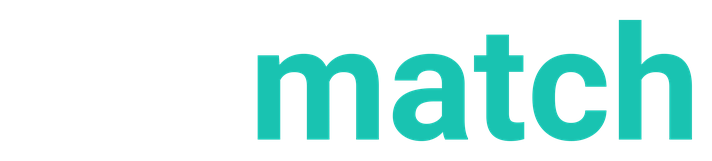
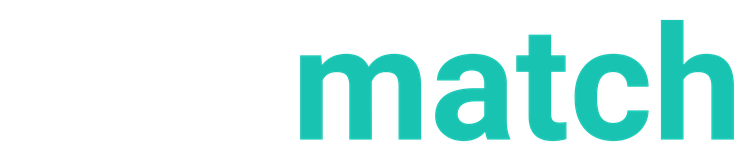
Use a capital T in the Tabmatch wordmark and match the website header to the app
- Wordmark is now "Tabmatch": "Tab" in white (navy on light), "match" in
  turquoise. Flutter Wordmark widget, brand-asset generator, the regenerated
  wordmark/social/splash images, and the website header, footer and 500 page.
- Website header matches the app header: icon 36px, gap 10px, wordmark 26px
  (the app's 1 : 0.28 : 0.72 proportions), vertically centred. On screens
  under 560px the wordmark stays, smaller (icon 28px, text 20px, gap 8px), so
  the menu button still fits.
- The tagline is removed from the header and kept once in the footer, smaller.
- Tests updated and added for the capital T, the tagline placement and the
  header proportions.

Changed region(s): [[0.3399, 0.1242, 0.9888, 0.9006]]

diff --git a/website/static/website/css/site.css b/website/static/website/css/site.css
@@ -45,16 +45,17 @@ ul, ol { margin: 0; padding: 0; }
 /* Header */
 .site-header { background: var(--navy); color: #fff; position: sticky; top: 0; z-index: 50; }
 .header-row { display: flex; align-items: center; justify-content: space-between; gap: 1rem; min-height: 68px; }
-.brand { display: flex; align-items: center; gap: .7rem; color: #fff; text-decoration: none; }
-.brand-mark { display: inline-grid; place-items: center; flex: none; width: 44px; height: 44px; border-radius: 12px; background: transparent; }
+/* Same proportions as the app header (AppLogo): the icon, a gap of 0.28x its
+   height, and a wordmark 0.72x its height, all vertically centred. */
+.brand { display: flex; align-items: center; gap: 10px; color: #fff; text-decoration: none; }
+.brand-mark { display: inline-flex; align-items: center; justify-content: center; flex: none; width: 36px; height: 36px; }
 .brand-mark img { display: block; width: 36px; height: 36px; }
-.brand-text { display: flex; flex-direction: column; line-height: 1.15; }
-.brand-text strong { font-size: 1.15rem; }
-.wordmark { font-weight: 800; letter-spacing: -.02em; }
+.brand-text { display: flex; align-items: center; }
+.brand-text strong { font-size: 26px; }
+.wordmark { font-weight: 700; letter-spacing: -.5px; line-height: 1.1; }
 .wordmark .wm-tab { color: #fff; }
 .wordmark .wm-match { color: #19C3B1; }
 .on-light .wordmark .wm-tab { color: #0B1F3A; }
-.brand-text small { font-size: .72rem; color: rgba(255,255,255,.65); }
 .site-nav { display: flex; align-items: center; gap: .3rem; }
 .nav-item { position: relative; }
 .nav-link { color: #fff; text-decoration: none; padding: .55rem .8rem; border-radius: 10px; background: none; border: 0; font: inherit; font-weight: 600; cursor: pointer; }
@@ -143,9 +144,10 @@ ul, ol { margin: 0; padding: 0; }
 .cta-band .btn-row { justify-content: center; }
 .site-footer { background: #071528; color: #fff; padding: 2.5rem 0 1rem; }
 .footer-grid { display: grid; grid-template-columns: 2fr 1fr 1fr 1fr; gap: 2rem; }
-.footer-brand { display: flex; align-items: center; gap: .7rem; font-weight: 800; font-size: 1.2rem; margin-bottom: .6rem; }
-.footer-brand .brand-mark { width: 40px; height: 40px; }
+.footer-brand { display: flex; align-items: center; gap: 9px; font-size: 23px; margin-bottom: .6rem; }
+.footer-brand .brand-mark { width: 32px; height: 32px; }
 .footer-brand .brand-mark img { width: 32px; height: 32px; }
+.footer-tagline { font-size: .75rem; color: rgba(255,255,255,.55); margin-top: .6rem; }
 .footer-h { font-weight: 700; margin-bottom: .5rem; }
 .site-footer ul { list-style: none; }
 .site-footer li { padding: .15rem 0; }
@@ -251,7 +253,10 @@ ul, ol { margin: 0; padding: 0; }
 .draft-note { background: rgba(25,195,177,.12); border: 1.5px solid var(--turquoise); border-radius: var(--radius-sm); padding: .9rem 1.1rem; }
 .muted-text { color: var(--muted); }
 
-/* Small screens: the header shows the circle icon alone, no wordmark text. */
+/* Small screens: the wordmark stays, smaller (icon 28px, text 20px = 0.72x,
+   gap 8px = 0.28x, the app's proportions), so the menu button still fits. */
 @media (max-width: 559px) {
-  .site-header .brand-text { display: none; }
+  .site-header .brand { gap: 8px; }
+  .site-header .brand-mark, .site-header .brand-mark img { width: 28px; height: 28px; }
+  .site-header .brand-text strong { font-size: 20px; }
 }

diff --git a/test/about_us_and_logo_test.dart b/test/about_us_and_logo_test.dart
@@ -25,7 +25,7 @@ void main() {
         (tester.widget<Text>(find.byKey(const Key('wordmark'))).textSpan! as TextSpan).children!;
 
     for (final width in [400.0, 1080.0, 1600.0]) {
-      testWidgets('shows the tm mark and the lowercase "tabmatch" wordmark at ${width.toInt()}px wide',
+      testWidgets('shows the tm mark and the "Tabmatch" wordmark (capital T) at ${width.toInt()}px wide',
           (tester) async {
         await pumpLogo(tester, const AppLogo(), width: width);
 
@@ -34,21 +34,21 @@ void main() {
             .map((image) => (image.image as AssetImage).assetName)
             .toList();
         expect(assetNames, ['assets/brand/tabmatch_icon_192.png']);
-        expect(tester.widget<Text>(find.byKey(const Key('wordmark'))).textSpan!.toPlainText(), 'tabmatch');
+        expect(tester.widget<Text>(find.byKey(const Key('wordmark'))).textSpan!.toPlainText(), 'Tabmatch');
         expect(find.textContaining('Top-Link'), findsNothing);
         expect(find.textContaining('TLA'), findsNothing);
       });
     }
 
-    testWidgets('on a dark background "tab" is white and "match" is turquoise', (tester) async {
+    testWidgets('on a dark background "Tab" is white and "match" is turquoise', (tester) async {
       await pumpLogo(tester, const AppLogo(), background: AppColors.navy);
       final spans = wordmarkSpans(tester).cast<TextSpan>();
-      expect([for (final s in spans) s.text], ['tab', 'match']);
+      expect([for (final s in spans) s.text], ['Tab', 'match']);
       expect(spans[0].style!.color, AppColors.white);
       expect(spans[1].style!.color, const Color(0xFF19C3B1));
     });
 
-    testWidgets('on a light background "tab" is navy (#0B1F3A)', (tester) async {
+    testWidgets('on a light background "Tab" is navy (#0B1F3A)', (tester) async {
       await pumpLogo(tester, const AppLogo(onLight: true));
       final spans = wordmarkSpans(tester).cast<TextSpan>();
       expect(spans[0].style!.color, const Color(0xFF0B1F3A));

diff --git a/lib/widgets/app_logo.dart b/lib/widgets/app_logo.dart
@@ -2,7 +2,7 @@ import 'package:flutter/material.dart';
 
 import '../app_colors.dart';
 
-/// "tabmatch": lowercase, "tab" in white (navy on a light background) and
+/// "Tabmatch": a capital T, "Tab" in white (navy on a light background) and
 /// "match" in turquoise. Live text, so it stays sharp at any size and follows
 /// the system font scale.
 class Wordmark extends StatelessWidget {
@@ -10,7 +10,7 @@ class Wordmark extends StatelessWidget {
 
   final double fontSize;
 
-  /// True on a light background, where "tab" is navy instead of white.
+  /// True on a light background, where "Tab" is navy instead of white.
   final bool onLight;
 
   @override
@@ -21,7 +21,7 @@ class Wordmark extends StatelessWidget {
         child: Text.rich(
           TextSpan(
             children: [
-              TextSpan(text: 'tab', style: TextStyle(color: onLight ? AppColors.navy : AppColors.white)),
+              TextSpan(text: 'Tab', style: TextStyle(color: onLight ? AppColors.navy : AppColors.white)),
               const TextSpan(text: 'match', style: TextStyle(color: AppColors.turquoise)),
             ],
           ),
@@ -39,7 +39,7 @@ class Wordmark extends StatelessWidget {
 ///
 /// The mark is a navy rounded tile, so on the navy app bar and drawer header
 /// only the white T and turquoise m show; pass [onLight] on a light background,
-/// where the tile and a navy "tab" stand out instead. [showWordmark] false
+/// where the tile and a navy "Tab" stand out instead. [showWordmark] false
 /// gives just the mark, for tight spots.
 class AppLogo extends StatelessWidget {
   const AppLogo({super.key, this.height = 32, this.onLight = false, this.showWordmark = true});

diff --git a/website/templates/website/partials/footer.html b/website/templates/website/partials/footer.html
@@ -1,8 +1,9 @@
 {% load static %}<footer class="site-footer">
   <div class="wrap footer-grid">
     <div>
-      <p class="footer-brand"><span class="brand-mark"><img src="{% static 'website/images/logo-mark.svg' %}" alt="" width="36" height="36"></span><strong class="wordmark"><span class="wm-tab">tab</span><span class="wm-match">match</span></strong></p>
-      <p class="muted-on-dark">{{ site.tagline }}. Connecting customers with trusted local service providers.</p>
+      <p class="footer-brand"><span class="brand-mark"><img src="{% static 'website/images/logo-mark.svg' %}" alt="" width="36" height="36"></span><strong class="wordmark"><span class="wm-tab">Tab</span><span class="wm-match">match</span></strong></p>
+      <p class="muted-on-dark">Connecting customers with trusted local service providers.</p>
+      <p class="footer-tagline">{{ site.tagline }}</p>
     </div>
     <div>
       <p class="footer-h">Popular in {{ site.city }}</p>

diff --git a/website/templates/website/partials/header.html b/website/templates/website/partials/header.html
@@ -3,7 +3,7 @@
   <div class="wrap header-row">
     <a class="brand" href="{% url 'website:home' %}" aria-label="Tabmatch home">
       <span class="brand-mark"><img src="{% static 'website/images/logo-mark.svg' %}" alt="" width="36" height="36"></span>
-      <span class="brand-text"><strong class="wordmark"><span class="wm-tab">tab</span><span class="wm-match">match</span></strong><small>{{ site.tagline }}</small></span>
+      <span class="brand-text"><strong class="wordmark"><span class="wm-tab">Tab</span><span class="wm-match">match</span></strong></span>
     </a>
     <button class="nav-toggle" type="button" aria-expanded="false" aria-controls="site-nav" data-nav-toggle>
       <span class="sr">Menu</span><span class="bars" aria-hidden="true"></span>

diff --git a/website/templates/500.html b/website/templates/500.html
@@ -9,7 +9,7 @@
 </head>
 <body>
   <header class="site-header"><div class="wrap header-row">
-    <a class="brand" href="/" aria-label="Tabmatch home"><span class="brand-text"><strong class="wordmark"><span class="wm-tab">tab</span><span class="wm-match">match</span></strong></span></a>
+    <a class="brand" href="/" aria-label="Tabmatch home"><span class="brand-text"><strong class="wordmark"><span class="wm-tab">Tab</span><span class="wm-match">match</span></strong></span></a>
   </div></header>
   <main class="section"><div class="wrap narrow">
     <p class="eyebrow" style="color:var(--turquoise-dark)">Error 500</p>

diff --git a/website/tests.py b/website/tests.py
@@ -90,10 +90,15 @@ class PageTests(TestCase):
         self.assertEqual(png_size("og-image.png"), (1200, 630))
         self.assertEqual(png_size("apple-touch-icon.png"), (180, 180))
 
-    def test_header_hides_wordmark_text_on_small_screens(self):
+    def test_header_keeps_the_wordmark_on_small_screens_just_smaller(self):
         css = open(__import__("django.contrib.staticfiles.finders", fromlist=["find"]).find("website/css/site.css"), encoding="utf-8").read()
-        self.assertIn("max-width: 559px", css)
-        self.assertIn(".site-header .brand-text { display: none; }", css)
+        start = css.index("@media (max-width: 559px)")
+        end = css.find("@media", start + 10)  # the block runs to the next media query, or the end of the file
+        block = css[start:end if end != -1 else None]
+        self.assertIn(".site-header .brand-text strong { font-size: 20px; }", block)
+        self.assertIn("width: 28px; height: 28px;", block)
+        self.assertIn(".site-header .brand { gap: 8px; }", block)
+        self.assertNotIn("display: none", block)  # the name is never hidden
 
     def test_unknown_service_404(self):
         self.assertEqual(self.client.get("/services/does-not-exist/").status_code, 404)
@@ -298,10 +303,31 @@ class TabmatchBrandTests(TestCase):
 
     def test_the_header_and_footer_show_the_two_colour_wordmark_and_the_new_mark(self):
         html = self.client.get("/").content.decode()
-        wordmark = '<strong class="wordmark"><span class="wm-tab">tab</span><span class="wm-match">match</span></strong>'
+        wordmark = '<strong class="wordmark"><span class="wm-tab">Tab</span><span class="wm-match">match</span></strong>'
         self.assertEqual(html.count(wordmark), 2)  # header + footer
+        self.assertNotIn('<span class="wm-tab">tab</span>', html)  # a capital T, never the old lowercase
         self.assertIn('aria-label="Tabmatch home"', html)
         self.assertIn("website/images/logo-mark.svg", html)
+
+    def test_the_tagline_is_in_the_footer_only_and_the_header_is_just_the_logo(self):
+        import re
+
+        for path in ("/", "/providers/", "/this-page-does-not-exist/"):
+            html = self.client.get(path).content.decode()
+            header = re.search(r'<header class="site-header">.*?</header>', html, re.S).group(0)
+            self.assertNotIn("AI-Powered Service Matching", header, path)
+            self.assertNotIn("<small", header, path)
+        html = self.client.get("/").content.decode()
+        footer = re.search(r'<footer class="site-footer">.*?</footer>', html, re.S).group(0)
+        self.assertEqual(footer.count("AI-Powered Service Matching"), 1)
+        self.assertIn('<p class="footer-tagline">AI-Powered Service Matching</p>', footer)
+
+    def test_the_header_logo_uses_the_apps_proportions(self):
+        from django.contrib.staticfiles import finders
+
+        css = open(finders.find("website/css/site.css"), encoding="utf-8").read()
+        self.assertIn(".brand { display: flex; align-items: center; gap: 10px;", css)
+        self.assertIn(".brand-text strong { font-size: 26px; }", css)  # 0.72 x the 36px icon, like the app
 
     def test_the_wordmark_colours_are_turquoise_match_and_white_or_navy_tab(self):
         from django.contrib.staticfiles import finders

diff --git a/tool/make_brand_assets.py b/tool/make_brand_assets.py
@@ -10,7 +10,7 @@ writes:
   assets/brand/        icon PNGs (1024, 512, 192, 180, 48, favicon 32), the iOS
                        (opaque, square) icon, the Android adaptive foreground
                        and monochrome layers, the splash image, and the
-                       "tabmatch" wordmark on dark and light backgrounds
+                       "Tabmatch" wordmark on dark and light backgrounds
   website/static/website/images/   favicon, apple-touch icon, social image
 
 Platform launcher icons and the native splash screens are produced from these
@@ -99,16 +99,16 @@ def _font(px):
 
 
 def render_wordmark(height, tab_color, on=None):
-    """"tabmatch" in lowercase: "tab" in tab_color, "match" in turquoise."""
+    """"Tabmatch" with a capital T: "Tab" in tab_color, "match" in turquoise."""
     font = _font(height * SUPERSAMPLE)
     big_h = height * SUPERSAMPLE
-    tab_w = font.getlength("tab")
+    tab_w = font.getlength("Tab")
     match_w = font.getlength("match")
     pad = big_h // 4
     img = Image.new("RGBA", (round(tab_w + match_w) + pad * 2, round(big_h * 1.5)), on or (0, 0, 0, 0))
     draw = ImageDraw.Draw(img)
     baseline = round(big_h * 1.15)
-    draw.text((pad, baseline), "tab", font=font, fill=tab_color, anchor="ls")
+    draw.text((pad, baseline), "Tab", font=font, fill=tab_color, anchor="ls")
     draw.text((pad + tab_w, baseline), "match", font=font, fill=TURQUOISE, anchor="ls")
     bbox = img.getbbox()
     img = img.crop((max(bbox[0] - pad // 2, 0), max(bbox[1] - pad // 2, 0), bbox[2] + pad // 2, bbox[3] + pad // 2))
